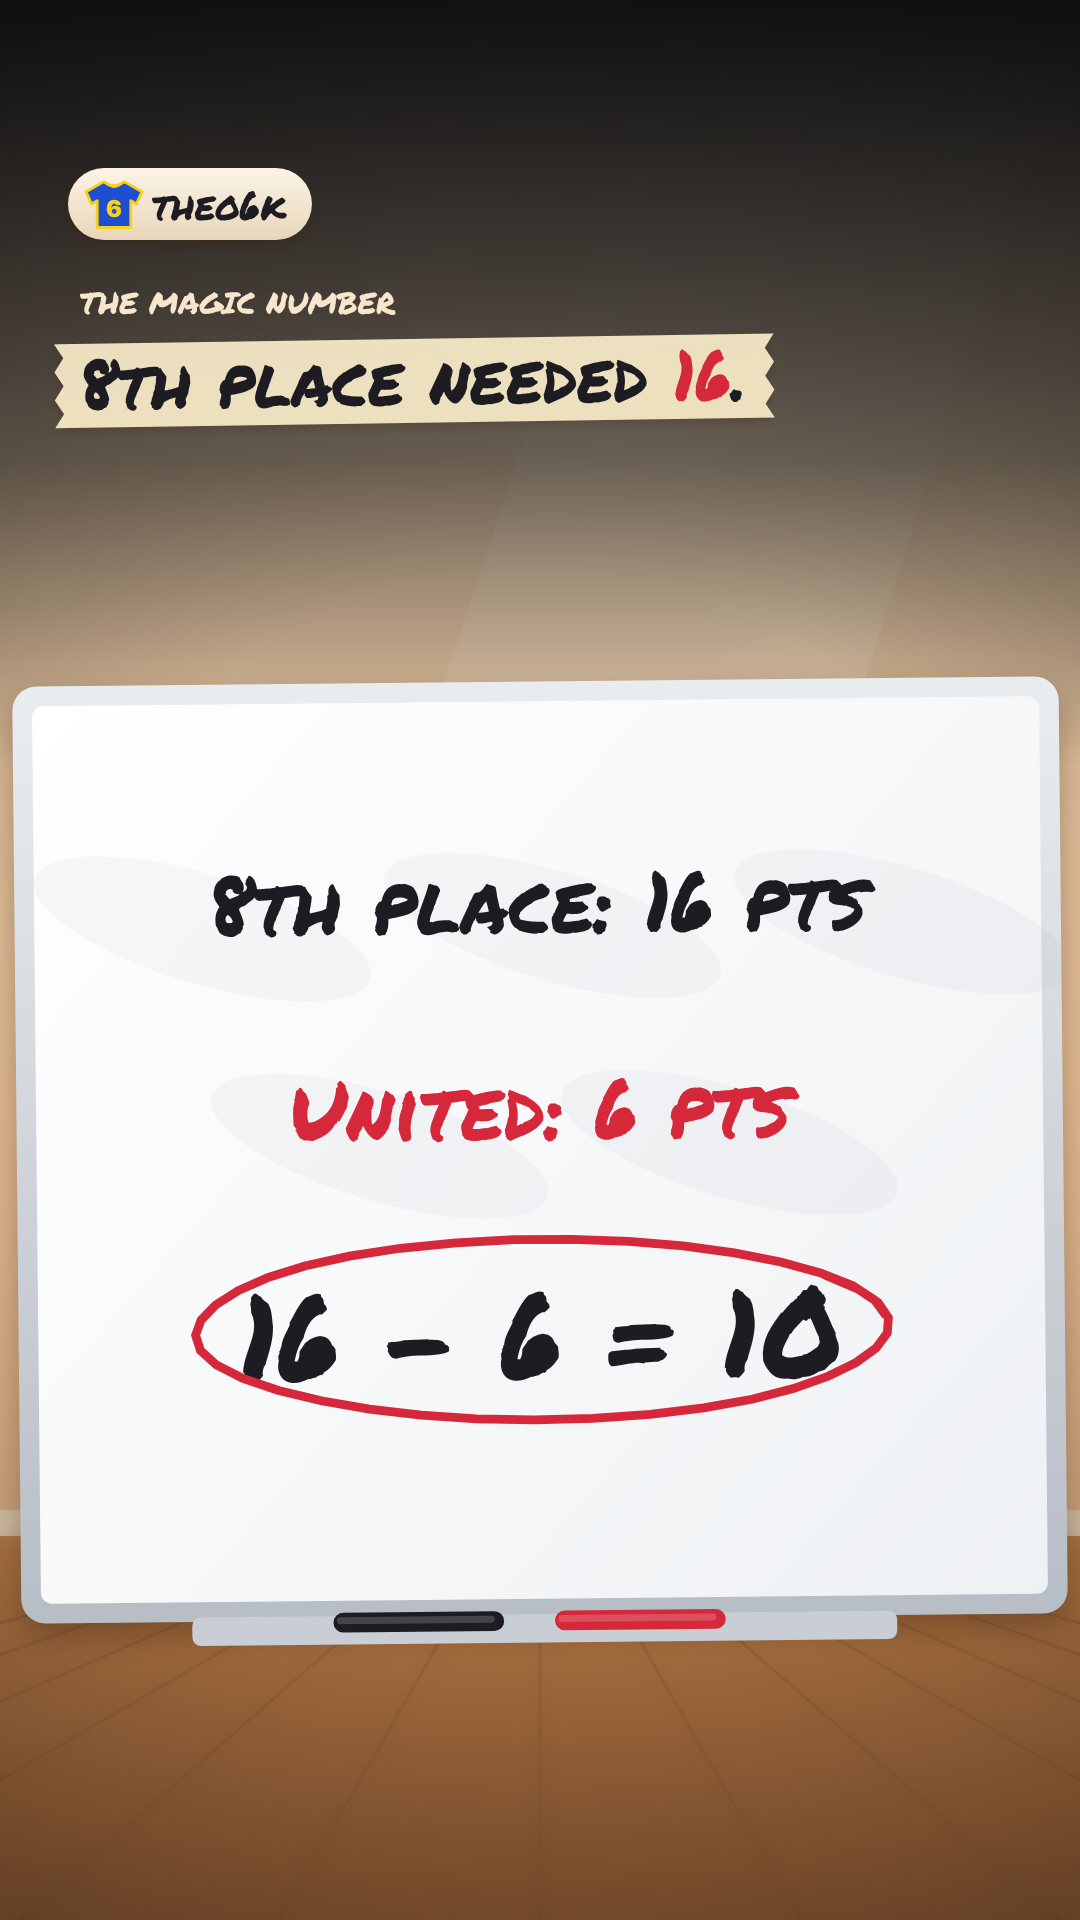
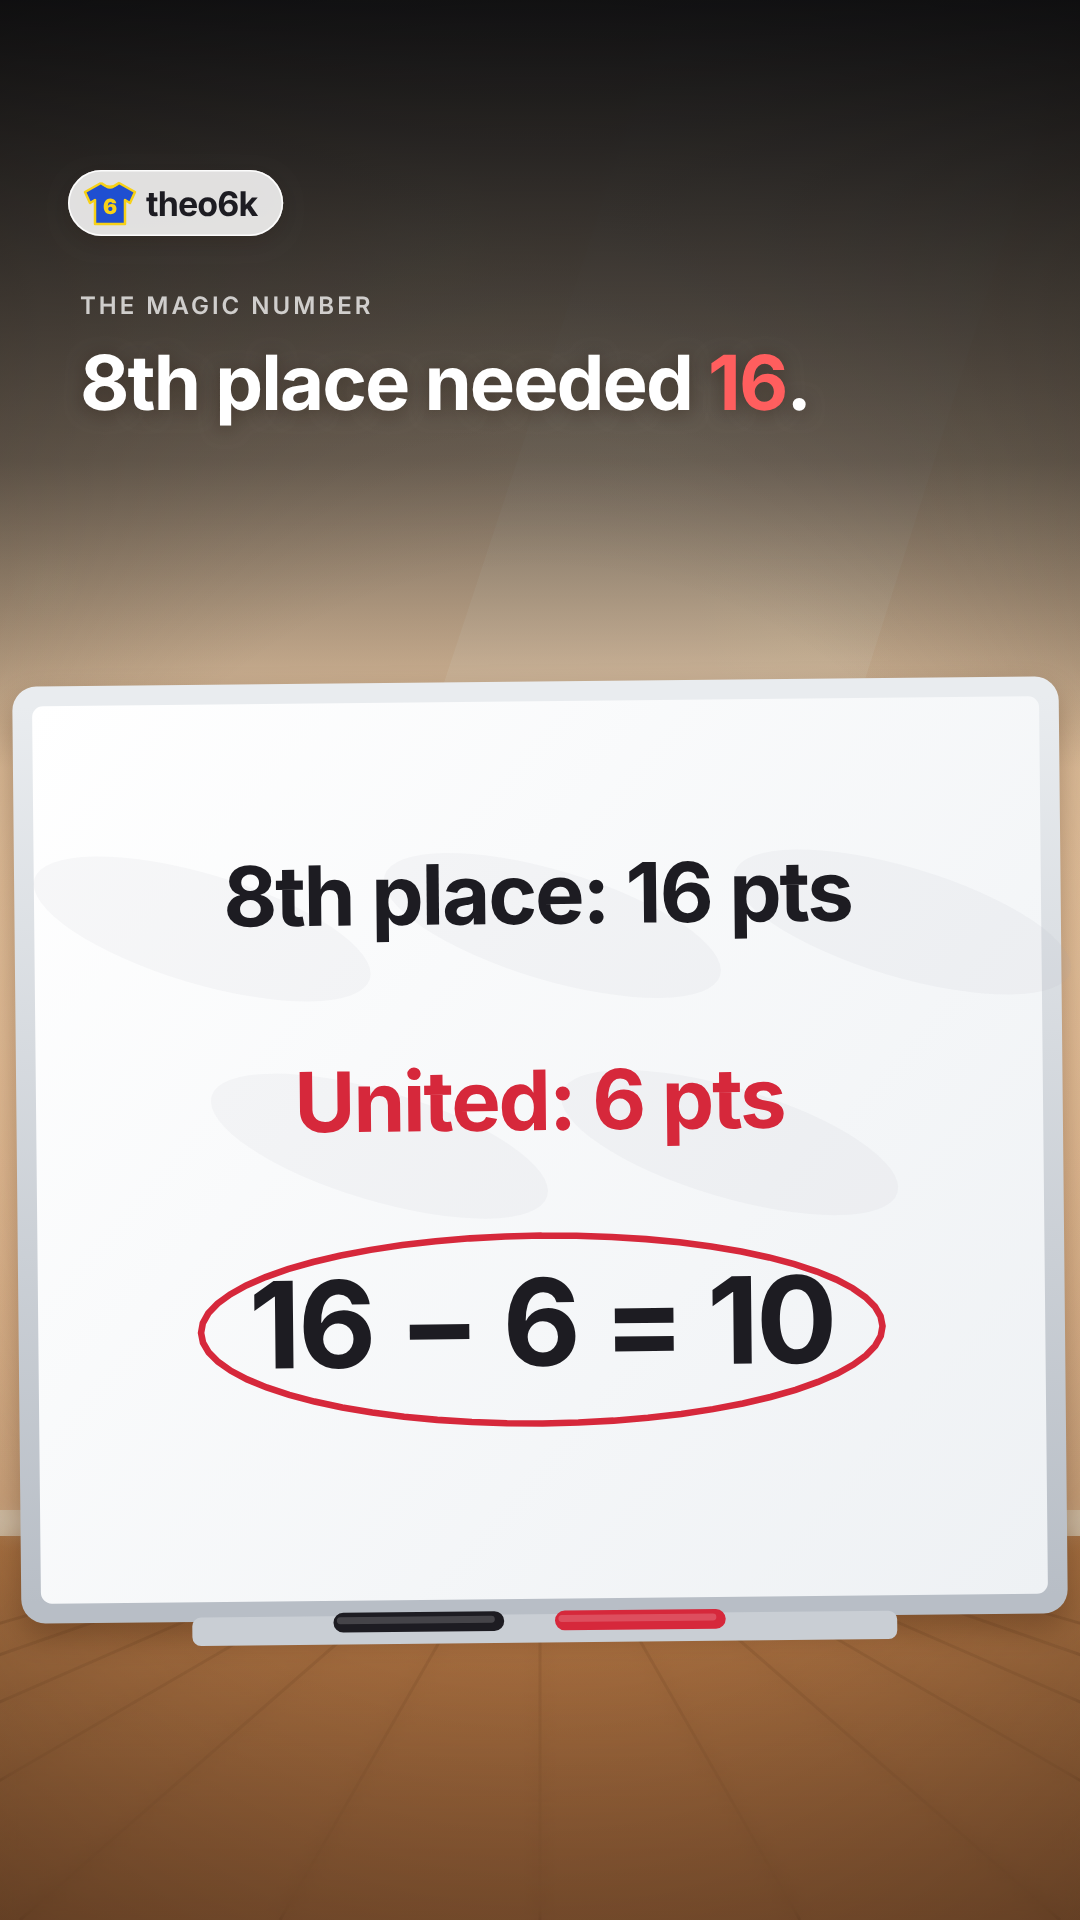
Toy style: clean Apple-like typography (Inter, tight tracking, frosted pills) instead of marker and tape
Claude-Session: https://claude.ai/code/session_01XCfSYSe35JQT7i2iWhcNB7

diff --git a/engine/toy.js b/engine/toy.js
@@ -296,67 +296,57 @@ function drawToyFigure(x, y, u, p, t, walk, alpha) {
   }
 }
 
-// a strip of masking tape with marker writing on it
-function toyTape(text, cx, cy, size, k, rot, col) {
+// Typography for the toy style (user: "simple, minimalistic, Apple-like, modern"): Inter with tight tracking,
+// frosted rounded pills instead of tape, no rotation or hand lettering.
+function tf(weight, size) { font(weight, size, 'Inter', (-size * 0.025).toFixed(1) + 'px'); }
+function toyPill(x, y, w, h, alpha) {   // frosted glass pill
+  ctx.save(); ctx.shadowColor = 'rgba(40,20,5,0.18)'; ctx.shadowBlur = 18; ctx.shadowOffsetY = 6;
+  ctx.fillStyle = `rgba(255,255,255,${alpha == null ? 0.82 : alpha})`; rrect(x, y, w, h, h / 2); ctx.fill(); ctx.shadowColor = 'transparent';
+  ctx.strokeStyle = 'rgba(255,255,255,0.9)'; ctx.lineWidth = 1.5; rrect(x + 0.75, y + 0.75, w - 1.5, h - 1.5, h / 2); ctx.stroke();
+  ctx.restore();
+}
+function toyTape(text, cx, cy, size, k, rot, col) {   // name label: a small frosted pill
   if (k <= 0) return;
-  ctx.save(); ctx.translate(cx, cy); ctx.rotate(rot || -0.03); ctx.scale(k, k);
-  font(400, size, 'Marker'); const tw = ctx.measureText(text).width, h = size * 1.35, w = tw + size * 0.9;
-  ctx.fillStyle = TOY.tape; ctx.beginPath(); ctx.moveTo(-w / 2, -h / 2);
-  for (let i = 0; i <= 6; i++) ctx.lineTo(-w / 2 + (i % 2 ? 4 : -2), -h / 2 + i * h / 6);   // torn ends
-  for (let i = 0; i <= 6; i++) ctx.lineTo(w / 2 + (i % 2 ? -4 : 2), h / 2 - i * h / 6);
-  ctx.closePath(); ctx.shadowColor = 'rgba(60,30,10,0.25)'; ctx.shadowBlur = 8; ctx.shadowOffsetY = 3; ctx.fill(); ctx.shadowColor = 'transparent';
-  ctx.fillStyle = col || TOY.ink; ctx.textAlign = 'center'; ctx.textBaseline = 'middle'; ctx.fillText(text, 0, size * 0.06);
+  ctx.save(); ctx.translate(cx, cy); ctx.scale(k, k);
+  tf(600, size * 0.8); const tw = ctx.measureText(text).width, h = size * 1.25, w = tw + size * 1.0;
+  toyPill(-w / 2, -h / 2, w, h);
+  ctx.fillStyle = col || TOY.ink; ctx.textAlign = 'center'; ctx.textBaseline = 'middle'; ctx.fillText(text, 0, size * 0.03);
   ctx.restore();
 }
 
-// ---------- toy header: marker on tape ----------
+// ---------- toy header: clean sans, white on the scene ----------
 function drawToyHeadline(text, inT, outT, accent, wordT) {
-  font(400, 70, 'Marker'); const sp = ctx.measureText(' ').width, lines = [[]]; let x = 0;
+  const size = 76; tf(700, size); const sp = ctx.measureText(' ').width, lines = [[]]; let x = 0;
   for (const tk of parseHL(text)) {
     const w = ctx.measureText(tk.w).width, gap = tk.space ? sp : 0;
-    if (tk.space && x + gap + w > 860 && lines[lines.length - 1].length) { lines.push([]); x = 0; } else x += gap;
+    if (tk.space && x + gap + w > 900 && lines[lines.length - 1].length) { lines.push([]); x = 0; } else x += gap;
     lines[lines.length - 1].push({ ...tk, x, ww: w }); x += w;
   }
   const n = lines.reduce((m, l) => m + l.length, 0); let idx = 0;
   lines.forEach((line, li) => {
-    const a = eOut(pr(inT, 0.05 + li * 0.08, 0.45)), o = outT != null ? pr(outT, 0, 0.22) : 0;
-    let lw = line.length ? line[line.length - 1].x + line[line.length - 1].ww : 0, y = HL.y + li * 92 + (1 - a) * 24;
-    if (wordT != null) {   // hook: the tape grows with the words as they land
-      let shown = -1; line.forEach((tk, j) => { if (pr(wordT, 0.2 + (idx + j) * (1.2 / Math.max(1, n)), 0.22) > 0) shown = j; });
-      if (shown < 0) { idx += line.length; return; }
-      lw = line[shown].x + line[shown].ww;
-    }
-    ctx.save(); ctx.globalAlpha = a * (1 - o);
-    ctx.translate(HL.x, y); ctx.rotate(li % 2 ? 0.012 : -0.015);
-    ctx.fillStyle = TOY.tape; ctx.shadowColor = 'rgba(60,30,10,0.22)'; ctx.shadowBlur = 10; ctx.shadowOffsetY = 4;
-    ctx.beginPath(); ctx.moveTo(-22, -66);
-    for (let i = 0; i <= 6; i++) ctx.lineTo(-22 + (i % 2 ? 6 : -3), -66 + i * 14);
-    for (let i = 0; i <= 6; i++) ctx.lineTo(lw + 24 + (i % 2 ? -6 : 3), 18 - i * 14);
-    ctx.closePath(); ctx.fill(); ctx.shadowColor = 'transparent';
-    font(400, 70, 'Marker'); ctx.textAlign = 'left'; ctx.textBaseline = 'alphabetic';
+    const a = eOut(pr(inT, 0.05 + li * 0.08, 0.45)), o = outT != null ? pr(outT, 0, 0.22) : 0, y = HL.y + li * 88 + (1 - a) * 20 - o * 10;
+    ctx.save(); ctx.globalAlpha = a * (1 - o); tf(700, size); ctx.textAlign = 'left'; ctx.textBaseline = 'alphabetic';
+    ctx.shadowColor = 'rgba(30,15,5,0.35)'; ctx.shadowBlur = 18; ctx.shadowOffsetY = 3;
     for (const tk of line) {
       let kk = 1;
-      if (wordT != null) { kk = pr(wordT, 0.2 + idx * (1.2 / Math.max(1, n)), 0.22); idx++; if (kk <= 0) continue; }
-      ctx.save(); ctx.globalAlpha *= Math.min(1, kk * 2);
-      const sc = 0.6 + 0.4 * eBack(kk); ctx.translate(tk.x + tk.ww / 2, -24); ctx.scale(sc, sc); ctx.translate(-(tk.x + tk.ww / 2), 24);
-      ctx.fillStyle = tk.acc ? (accent || S.accent) : TOY.ink; ctx.fillText(tk.w, tk.x, 0); ctx.restore();
+      if (wordT != null) { kk = pr(wordT, 0.2 + idx * (1.2 / Math.max(1, n)), 0.3); idx++; if (kk <= 0) continue; }
+      ctx.save(); ctx.globalAlpha *= eOut(kk);
+      ctx.fillStyle = tk.acc ? (accent || S.accent) : '#ffffff'; ctx.fillText(tk.w, HL.x + tk.x, y + (1 - eOut(kk)) * 18); ctx.restore();
     }
     ctx.restore();
   });
 }
 function drawToyKicker(text, a) {
   if (!text) return;
-  ctx.save(); ctx.globalAlpha = a; font(400, 30, 'Marker'); ctx.fillStyle = '#f6e7cc'; ctx.textAlign = 'left';
+  ctx.save(); ctx.globalAlpha = a * 0.75; font(600, 24, 'Inter', '3px'); ctx.fillStyle = '#ffffff'; ctx.textAlign = 'left';
   ctx.fillText(text.toUpperCase(), HL.x, HL.y - 96); ctx.restore();
 }
-function drawToyBrand() {   // the theo6k shirt as a little clay badge on a clay plate
+function drawToyBrand() {   // the theo6k shirt in a frosted pill
   const x = HL.x, y = 220, name = S.spec.brand || 'theo6k';
-  ctx.save(); font(400, 40, 'Marker'); const tw = ctx.measureText(name).width;
-  ctx.shadowColor = 'rgba(60,30,10,0.3)'; ctx.shadowBlur = 14; ctx.shadowOffsetY = 5;
-  const g = ctx.createLinearGradient(0, y - 50, 0, y + 20); g.addColorStop(0, '#fbf3e4'); g.addColorStop(1, '#e8d6ba');
-  ctx.fillStyle = g; rrect(x - 12, y - 52, tw + 110, 72, 36); ctx.fill(); ctx.shadowColor = 'transparent';
-  drawBrandShirt(x + 34, y - 16, 56);
-  ctx.fillStyle = TOY.ink; ctx.textAlign = 'left'; ctx.textBaseline = 'alphabetic'; ctx.fillText(name, x + 72, y);
+  ctx.save(); tf(700, 34); const tw = ctx.measureText(name).width;
+  toyPill(x - 12, y - 50, tw + 104, 66, 0.86);
+  drawBrandShirt(x + 30, y - 17, 50);
+  ctx.fillStyle = TOY.ink; ctx.textAlign = 'left'; ctx.textBaseline = 'alphabetic'; tf(700, 34); ctx.fillText(name, x + 66, y - 4);
   ctx.restore();
 }
 function drawToyOutro(ot) {
@@ -365,16 +355,13 @@ function drawToyOutro(ot) {
   ctx.save(); ctx.globalAlpha = k; ctx.drawImage(bgc, 0, 0, W, H); ctx.globalAlpha = 1;
   ctx.fillStyle = `rgba(90,50,20,${0.35 * k})`; ctx.fillRect(0, 0, W, H);
   const a = eBack(pr(ot, 0.35, 0.5)), y = H * 0.47;
-  if (a > 0) {   // a little wooden sign on a post
-    ctx.translate(W / 2, y + (1 - a) * 200); ctx.rotate(-0.03 * (1 - a) - 0.015);
-    ctx.fillStyle = '#9c6a3c'; rrect(-14, 60, 28, 260, 8); ctx.fill();
-    ctx.shadowColor = 'rgba(50,25,10,0.4)'; ctx.shadowBlur = 24; ctx.shadowOffsetY = 10;
-    const g = ctx.createLinearGradient(0, -150, 0, 110); g.addColorStop(0, '#d9a36a'); g.addColorStop(1, '#b07a45');
-    ctx.fillStyle = g; rrect(-330, -150, 660, 260, 30); ctx.fill(); ctx.shadowColor = 'transparent';
-    ctx.strokeStyle = 'rgba(90,50,20,0.35)'; ctx.lineWidth = 3; for (let i = 0; i < 5; i++) { ctx.beginPath(); ctx.moveTo(-310, -110 + i * 48); ctx.lineTo(310, -100 + i * 48); ctx.stroke(); }
-    drawBrandShirt(0, -78, 92);
-    font(400, 78, 'Marker'); ctx.fillStyle = TOY.ink; ctx.textAlign = 'center'; ctx.textBaseline = 'alphabetic'; ctx.fillText(S.spec.brand || 'theo6k', 0, 34);
-    font(400, 30, 'Marker'); ctx.fillStyle = '#4a2a14'; ctx.fillText(S.spec.outroText || 'follow for more football stories', 0, 82);
+  if (a > 0) {   // a clean frosted card
+    ctx.translate(W / 2, y + (1 - a) * 60); ctx.globalAlpha = Math.min(1, a);
+    ctx.shadowColor = 'rgba(40,20,5,0.3)'; ctx.shadowBlur = 40; ctx.shadowOffsetY = 14;
+    ctx.fillStyle = 'rgba(255,255,255,0.88)'; rrect(-300, -170, 600, 300, 44); ctx.fill(); ctx.shadowColor = 'transparent';
+    drawBrandShirt(0, -86, 96);
+    tf(700, 64); ctx.fillStyle = TOY.ink; ctx.textAlign = 'center'; ctx.textBaseline = 'alphabetic'; ctx.fillText(S.spec.brand || 'theo6k', 0, 22);
+    tf(500, 28); ctx.fillStyle = '#6b6f78'; ctx.fillText(S.spec.outroText || 'Follow for more football stories', 0, 76);
   }
   ctx.restore();
 }
@@ -397,15 +384,15 @@ CARDS.whiteboard = function (c, ct, cx, cy) {
   for (const L of c.lines || []) {
     const t0 = L.t || 0; if (ct < t0) continue;
     const size = L.size || 72, n = L.text.length, shown = Math.min(n, Math.floor((ct - t0) / (L.speed || 0.045)) + 1);
-    font(400, size, 'Marker'); ctx.fillStyle = L.color || TOY.ink; ctx.textAlign = 'center'; ctx.textBaseline = 'middle';
+    tf(L.weight || 700, size); ctx.fillStyle = L.color || TOY.ink; ctx.textAlign = 'center'; ctx.textBaseline = 'middle';
     const y = -h / 2 + (L.y != null ? L.y : 0.5) * h, full = ctx.measureText(L.text).width;
     ctx.textAlign = 'left'; ctx.fillText(L.text.slice(0, shown), -full / 2, y);
     const done = t0 + n * (L.speed || 0.045);
     if (L.underline && ct > done) { const k = pr(ct, done, 0.35); ctx.strokeStyle = L.underline; ctx.lineWidth = 7; ctx.lineCap = 'round';
       ctx.beginPath(); ctx.moveTo(-full / 2, y + size * 0.55); ctx.lineTo(-full / 2 + full * k, y + size * 0.55 + 6 * Math.sin(k * 3)); ctx.stroke(); }
     if (L.circle) { const t1 = L.circle.t != null ? L.circle.t : done + 0.2, k = pr(ct, t1, 0.5); if (k > 0) {
-      ctx.strokeStyle = L.circle.color || '#d6283b'; ctx.lineWidth = 8; ctx.lineCap = 'round'; ctx.beginPath();
-      for (let i = 0; i <= 40 * k; i++) { const an = -0.6 + i / 40 * Math.PI * 2.15, rx = full / 2 + 40 + Math.sin(i * 0.7) * 3, ry = size * 0.75; ctx.lineTo(Math.cos(an) * rx, y + Math.sin(an) * ry); }
+      ctx.strokeStyle = L.circle.color || '#d6283b'; ctx.lineWidth = 6; ctx.lineCap = 'round'; ctx.beginPath();
+      for (let i = 0; i <= 60 * k; i++) { const an = -Math.PI / 2 + i / 60 * Math.PI * 2, rx = full / 2 + 44, ry = size * 0.78; ctx.lineTo(Math.cos(an) * rx, y + Math.sin(an) * ry); }
       ctx.stroke(); } }
   }
   ctx.restore();
@@ -426,7 +413,7 @@ CARDS.toytable = function (c, ct, cx, cy) {
   zones.forEach(z => { ctx.fillStyle = z.color; ctx.fillRect(-w / 2 + 10, top + (z.from - 1) * rh, w - 20, (z.to - z.from + 1) * rh); });
   for (let r = 1; r <= n; r++) {
     const y = rowY(r);
-    font(400, rh * 0.62, 'Marker'); ctx.fillStyle = 'rgba(40,30,20,0.55)'; ctx.textAlign = 'right'; ctx.textBaseline = 'middle'; ctx.fillText(String(r), -w / 2 + 52, y + 1);
+    tf(600, rh * 0.5); ctx.fillStyle = 'rgba(40,30,20,0.5)'; ctx.textAlign = 'right'; ctx.textBaseline = 'middle'; ctx.fillText(String(r), -w / 2 + 52, y + 1);
     ctx.fillStyle = 'rgba(255,255,255,0.55)'; rrect(-w / 2 + 64, y - rh * 0.34, w * 0.5, rh * 0.68, rh * 0.34); ctx.fill();
   }
   // zone labels on the right, appearing on their words
@@ -434,7 +421,7 @@ CARDS.toytable = function (c, ct, cx, cy) {
     const y0 = top + (z.from - 1) * rh + 6, y1 = top + z.to * rh - 6, x = w * 0.18;
     ctx.save(); ctx.globalAlpha *= Math.min(1, k); ctx.strokeStyle = TOY.ink; ctx.lineWidth = 5; ctx.lineCap = 'round';
     ctx.beginPath(); ctx.moveTo(x, y0); ctx.lineTo(x + 18, y0); ctx.lineTo(x + 18, y1); ctx.lineTo(x, y1); ctx.stroke();
-    String(z.label).split('\n').forEach((l, i, arr) => { font(400, 34, 'Marker'); ctx.fillStyle = TOY.ink; ctx.textAlign = 'left'; ctx.textBaseline = 'middle';
+    String(z.label).split('\n').forEach((l, i, arr) => { tf(700, 32); ctx.fillStyle = TOY.ink; ctx.textAlign = 'left'; ctx.textBaseline = 'middle';
       ctx.fillText(l, x + 34, (y0 + y1) / 2 + (i - (arr.length - 1) / 2) * 38); });
     ctx.restore(); });
   // the team block
@@ -454,7 +441,7 @@ CARDS.toytable = function (c, ct, cx, cy) {
       ctx.restore();
     }
   }
-  if (c.title) { font(400, 44, 'Marker'); ctx.fillStyle = TOY.ink; ctx.textAlign = 'center'; ctx.textBaseline = 'alphabetic'; ctx.fillText(c.title, 0, -h / 2 - 34); }
+  if (c.title) { tf(700, 40); ctx.fillStyle = TOY.ink; ctx.textAlign = 'center'; ctx.textBaseline = 'alphabetic'; ctx.fillText(c.title, 0, -h / 2 - 34); }
   ctx.restore();
 };
 CARDS.toytable.noSlide = true;
